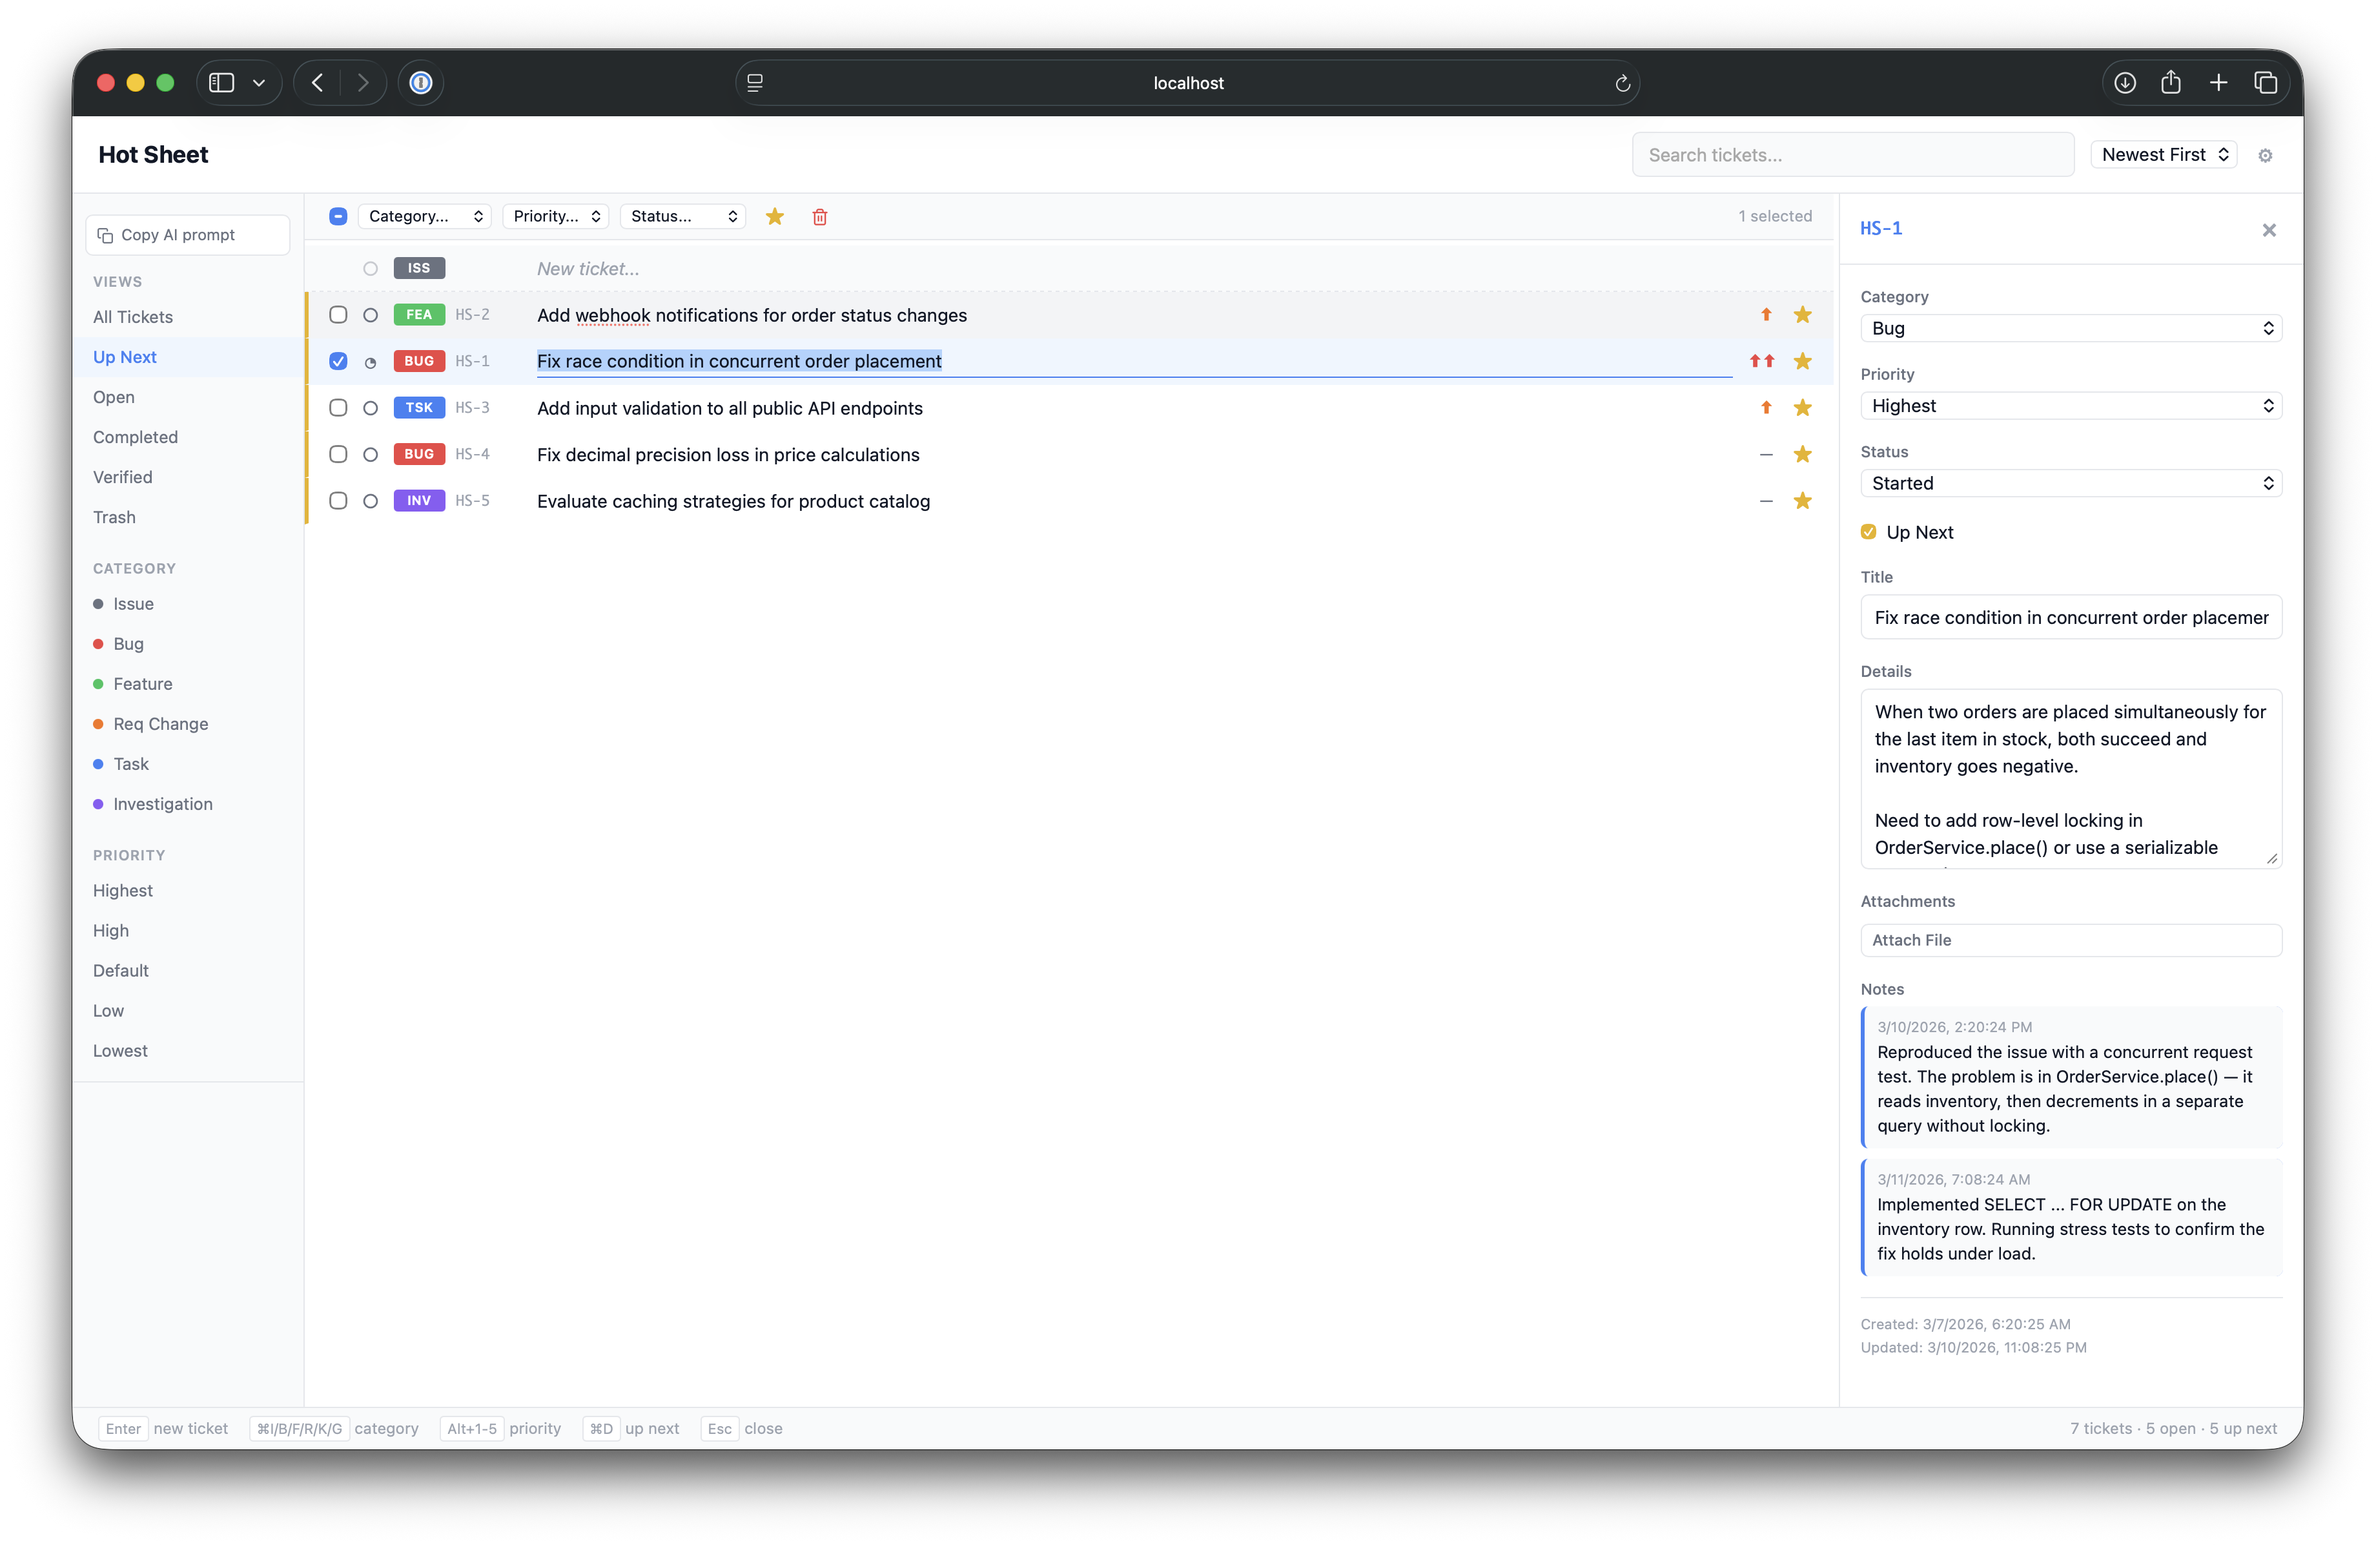
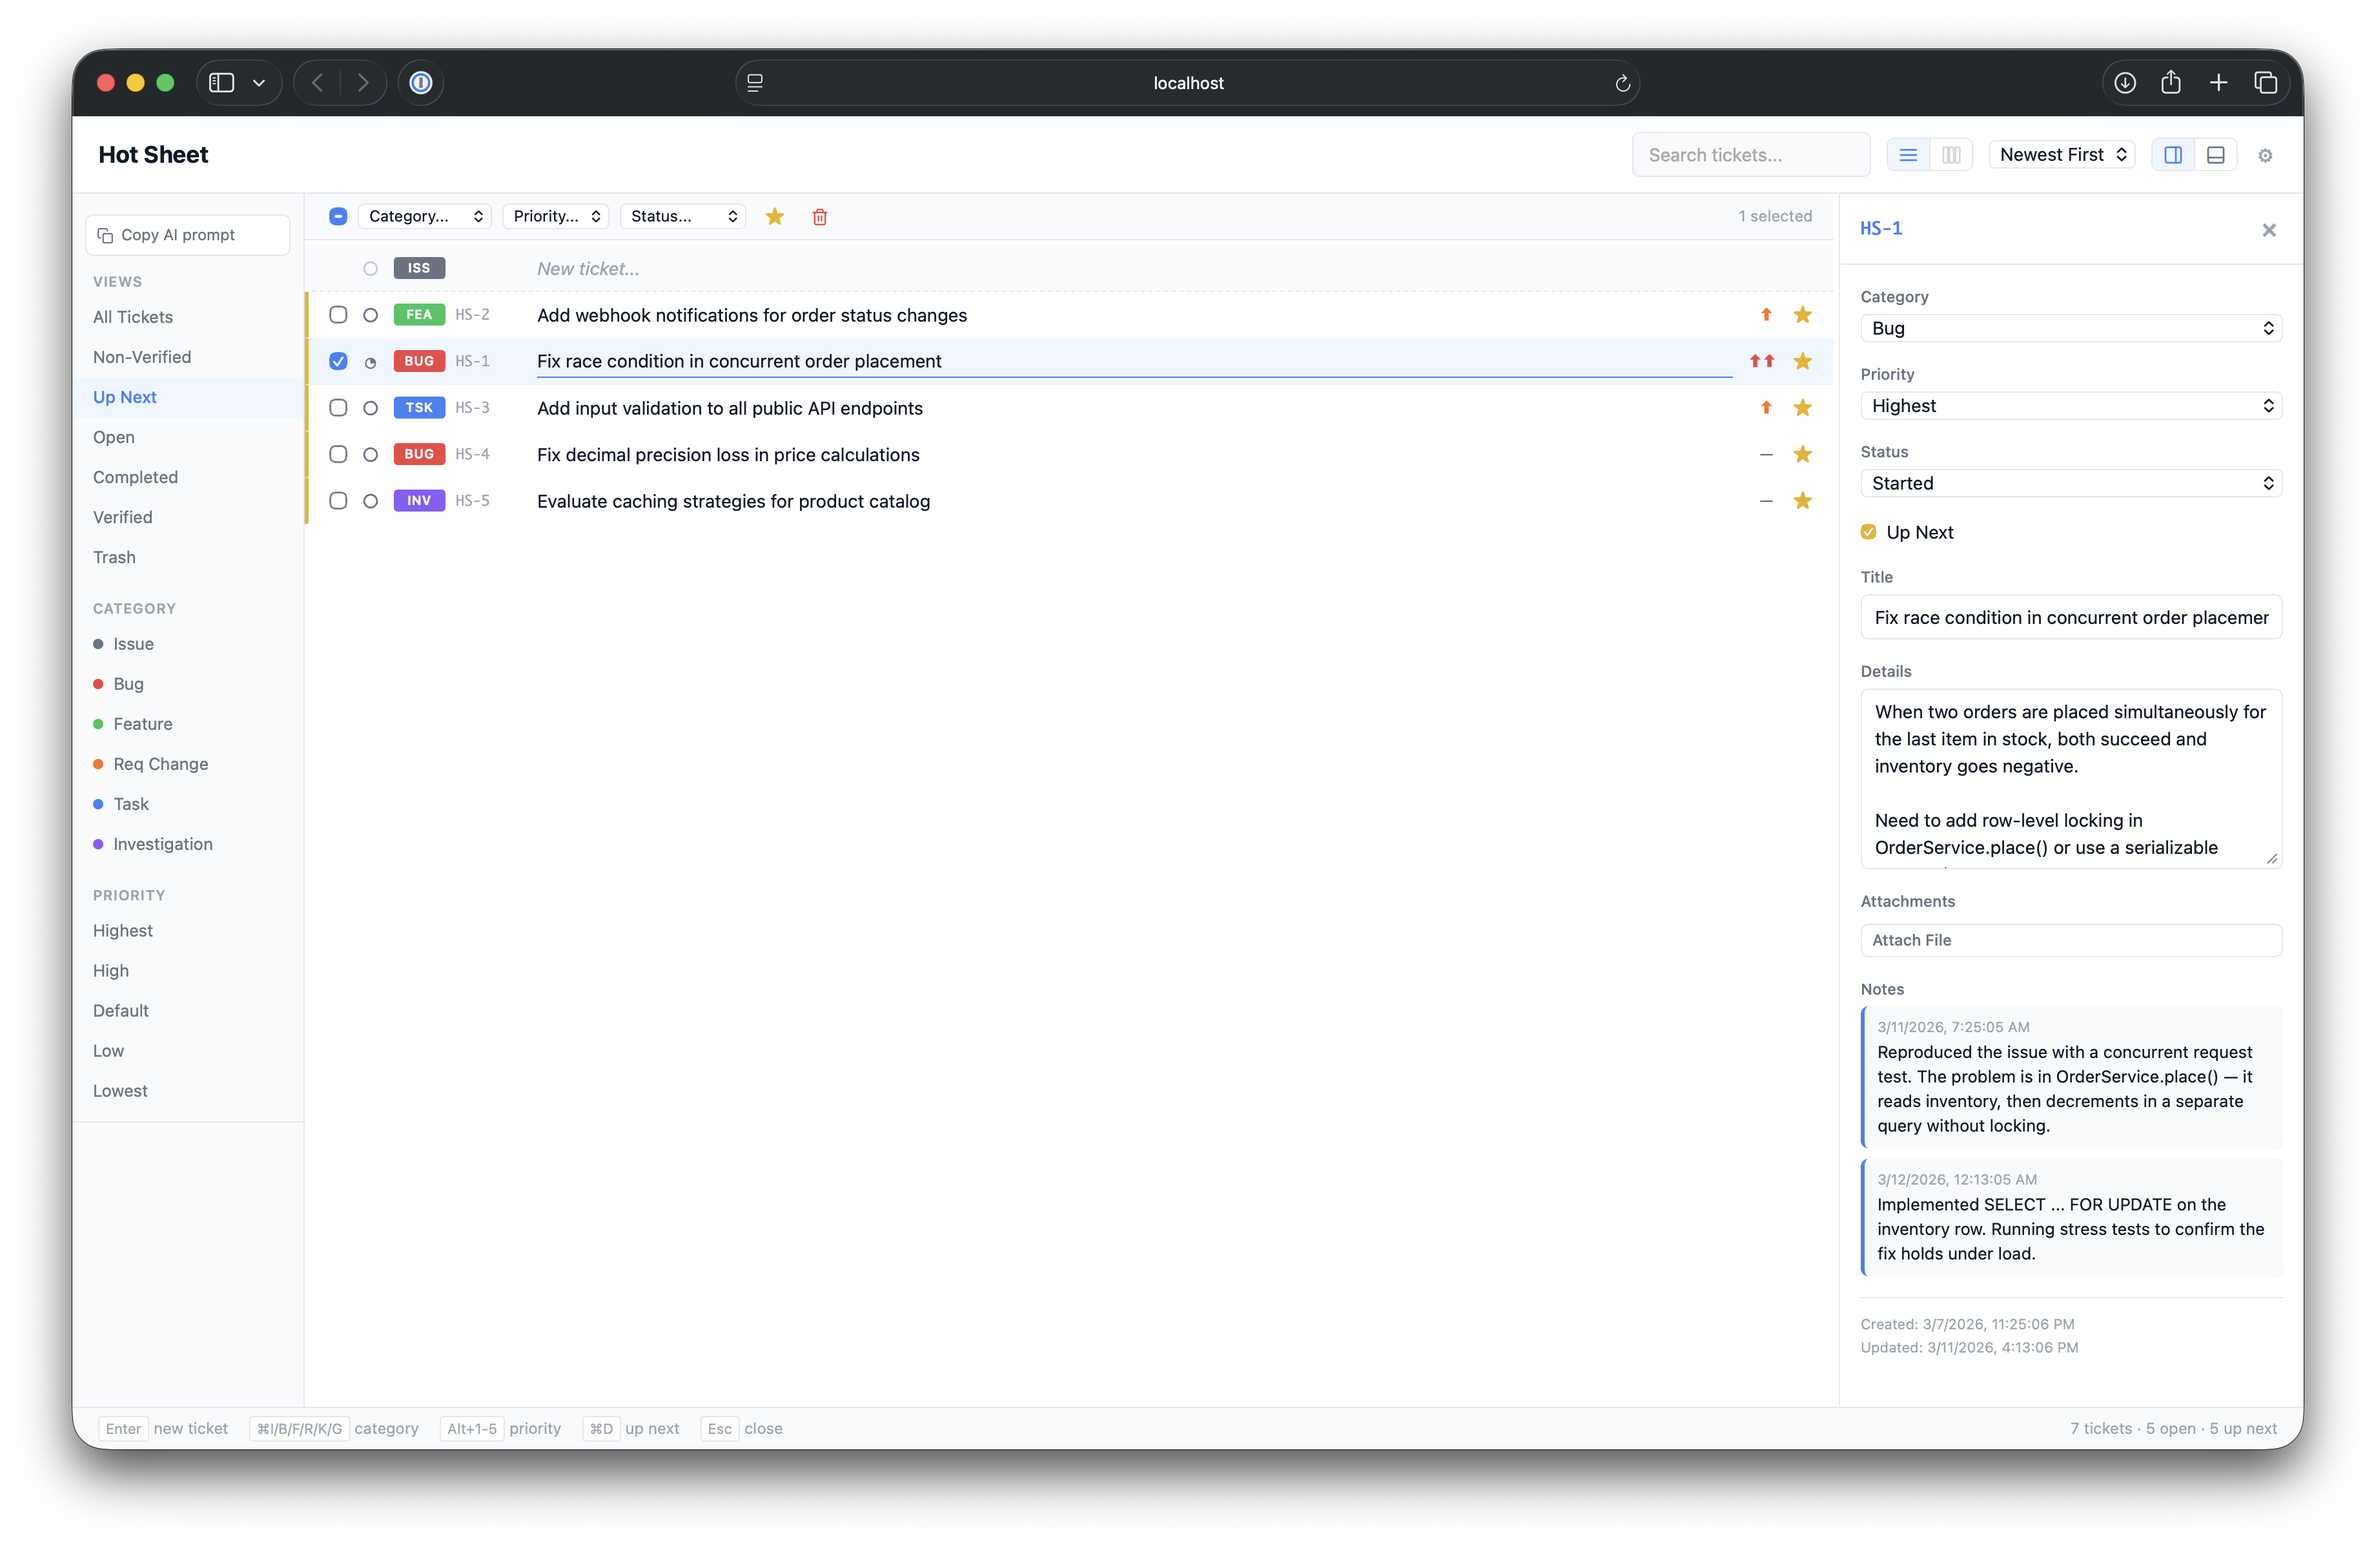
Updated readme

diff --git a/src/demo.ts b/src/demo.ts
@@ -14,6 +14,7 @@ export const DEMO_SCENARIOS: DemoScenario[] = [
   { id: 4, label: 'AI worklist — Up Next tickets with notes' },
   { id: 5, label: 'Batch operations — multi-select toolbar' },
   { id: 6, label: 'Detail panel — bottom orientation with notes' },
+  { id: 7, label: 'Column view — kanban board by status' },
 ];
 
 // --- Ticket data model ---
@@ -410,6 +411,77 @@ const SCENARIO_6: DemoTicket[] = [
   },
 ];
 
+// --- Scenario 7: Column view — kanban board with good spread across statuses ---
+
+const SCENARIO_7: DemoTicket[] = [
+  {
+    title: 'Implement product search autocomplete',
+    details: 'Add typeahead suggestions to the search bar using the product name index. Show top 5 matches with thumbnails.',
+    category: 'feature', priority: 'highest', status: 'not_started', up_next: true,
+    notes: '', days_ago: 2, updated_ago: 2,
+  },
+  {
+    title: 'Fix broken password reset flow for SSO users',
+    details: 'SSO users who try to reset their password get a generic error. Should redirect them to their identity provider instead.',
+    category: 'bug', priority: 'high', status: 'not_started', up_next: true,
+    notes: '', days_ago: 3, updated_ago: 3,
+  },
+  {
+    title: 'Add support for gift cards at checkout',
+    details: 'Customers should be able to apply gift card codes during checkout. Support partial redemption and balance tracking.',
+    category: 'feature', priority: 'default', status: 'not_started', up_next: false,
+    notes: '', days_ago: 5, updated_ago: 5,
+  },
+  {
+    title: 'Investigate slow query on order history page',
+    details: 'The order history page takes 4+ seconds for users with 200+ orders. Profile the query and add proper indexing.',
+    category: 'investigation', priority: 'high', status: 'not_started', up_next: false,
+    notes: '', days_ago: 4, updated_ago: 4,
+  },
+  {
+    title: 'Refactor authentication middleware to support API keys',
+    details: 'Third-party integrations need API key auth in addition to session cookies. Extract auth into a strategy pattern.',
+    category: 'task', priority: 'high', status: 'started', up_next: true,
+    notes: notesJson([{ text: 'Created the AuthStrategy interface and migrated session auth to use it. Working on the API key strategy next.', days_ago: 0.5 }]),
+    days_ago: 4, updated_ago: 0.5,
+  },
+  {
+    title: 'Fix cart not clearing after successful checkout',
+    details: 'After a successful order placement, the cart retains all items. The clearCart() call is inside a catch block by mistake.',
+    category: 'bug', priority: 'highest', status: 'started', up_next: true,
+    notes: notesJson([{ text: 'Found the issue — clearCart() was moved into the catch block during a refactor. Fixing and adding a test.', days_ago: 0.3 }]),
+    days_ago: 1, updated_ago: 0.3,
+  },
+  {
+    title: 'Update shipping rate calculation for oversized items',
+    details: 'Dimensional weight pricing is required for packages over 1 cubic foot. Current flat-rate calculation undercharges.',
+    category: 'requirement_change', priority: 'default', status: 'started', up_next: false,
+    notes: notesJson([{ text: 'Implemented dim weight formula. Comparing rates against the carrier API to validate accuracy.', days_ago: 1 }]),
+    days_ago: 6, updated_ago: 1,
+  },
+  {
+    title: 'Add end-to-end tests for the checkout flow',
+    details: 'Write Playwright tests covering: add to cart, apply coupon, enter shipping, pay, and confirm. Cover happy path and key error cases.',
+    category: 'task', priority: 'default', status: 'completed', up_next: false,
+    notes: notesJson([{ text: 'Wrote 8 E2E tests covering the full checkout flow including coupon application and payment decline handling.', days_ago: 1 }]),
+    days_ago: 8, updated_ago: 1, completed_ago: 1,
+  },
+  {
+    title: 'Fix product image carousel swipe on mobile',
+    details: 'Swipe gestures on the product image carousel conflict with the browser back gesture. Use a swipe threshold to disambiguate.',
+    category: 'bug', priority: 'default', status: 'completed', up_next: false,
+    notes: notesJson([{ text: 'Added a 30px horizontal threshold before initiating carousel swipe. Tested on iOS Safari and Chrome Android.', days_ago: 2 }]),
+    days_ago: 7, updated_ago: 2, completed_ago: 2,
+  },
+  {
+    title: 'Set up log aggregation with structured JSON logging',
+    details: 'Replace console.log calls with a structured logger (pino). Send logs to a central aggregation service for search and alerting.',
+    category: 'task', priority: 'low', status: 'completed', up_next: false,
+    notes: notesJson([{ text: 'Replaced all console.log calls with pino. Configured log shipping to the aggregation service. Alert rules set for error-level logs.', days_ago: 3 }]),
+    days_ago: 10, updated_ago: 3, completed_ago: 3,
+  },
+];
+
 // --- Scenario data lookup ---
 
 const SCENARIO_DATA: Record<number, DemoTicket[]> = {
@@ -419,6 +491,7 @@ const SCENARIO_DATA: Record<number, DemoTicket[]> = {
   4: SCENARIO_4,
   5: SCENARIO_5,
   6: SCENARIO_6,
+  7: SCENARIO_7,
 };
 
 // --- Seeding ---
@@ -449,5 +522,8 @@ export async function seedDemoData(scenario: number): Promise<void> {
   if (scenario === 6) {
     await db.query(`UPDATE settings SET value = 'bottom' WHERE key = 'detail_position'`);
     await db.query(`UPDATE settings SET value = '280' WHERE key = 'detail_height'`);
+  }
+  if (scenario === 7) {
+    await db.query(`INSERT INTO settings (key, value) VALUES ('layout', 'columns') ON CONFLICT (key) DO UPDATE SET value = 'columns'`);
   }
 }

diff --git a/README.md b/README.md
@@ -63,13 +63,19 @@ The loop stays tight because the AI always knows what to work on next.
   <img src="docs/demo-3.png" alt="Sidebar filtering by Bug category" width="900">
 </p>
 
-**Batch operations** — select multiple tickets to bulk-update category, priority, status, or Up Next.
+**Column view** — switch to a kanban-style board grouped by status. Drag tickets between columns to change status, or drag onto sidebar items to set category, priority, or view.
+
+<p align="center">
+  <img src="docs/demo-7.png" alt="Column view showing tickets organized by status in a kanban board" width="900">
+</p>
+
+**Batch operations** — select multiple tickets to bulk-update category, priority, status, or Up Next. Multi-select works in both list and column views.
 
 <p align="center">
   <img src="docs/demo-5.png" alt="Multiple tickets selected with the batch toolbar visible" width="900">
 </p>
 
-**Detail panel** — side or bottom orientation, resizable, with fields for title, details, attachments, and timestamped notes. Auto-shows when you select a ticket.
+**Detail panel** — side or bottom orientation (toggle in the toolbar), resizable, with fields for title, details, attachments, and timestamped notes. Auto-shows when you select a ticket.
 
 <p align="center">
   <img src="docs/demo-6.png" alt="Detail panel in bottom orientation showing ticket details and notes" width="900">
@@ -78,12 +84,13 @@ The loop stays tight because the AI always knows what to work on next.
 **Also includes:**
 - **Five priority levels** — Highest to Lowest, sortable and filterable
 - **Up Next flag** — star tickets to add them to the AI worklist
+- **Drag and drop** — drag tickets onto sidebar views to change category, priority, or status
 - **Search** — full-text search across ticket titles and details
-- **Keyboard-driven** — `Enter` to create, `Cmd+I/B/F/R/K/G` for categories, `Alt+1-5` for priority, `Cmd+D` for Up Next
+- **Keyboard-driven** — `Enter` to create, `Cmd+I/B/F/R/K/G` for categories, `Alt+1-5` for priority, `Cmd+D` for Up Next, `Cmd+C` to copy
+- **Copy for commits** — `Cmd+C` copies selected ticket info (number + title) for use in commit messages
 - **File attachments** — attach files to any ticket
 - **Markdown sync** — `worklist.md` and `open-tickets.md` auto-generated on every change
 - **Auto-cleanup** — configurable auto-deletion of old trash and verified items
-- **Settings** — detail panel position, cleanup intervals, all persisted
 - **Fully local** — embedded PostgreSQL (PGLite), no network calls, no accounts, no telemetry
 
 ---
@@ -189,6 +196,7 @@ hotsheet --data-dir ~/projects/my-app/.hotsheet
 | `Cmd+G` | Set category: Investigation |
 | `Alt+1-5` | Set priority (Highest to Lowest) |
 | `Cmd+D` | Toggle Up Next |
+| `Cmd+C` | Copy ticket info (number + title) |
 | `Cmd+A` | Select all |
 | `Escape` | Clear selection / close |
 
